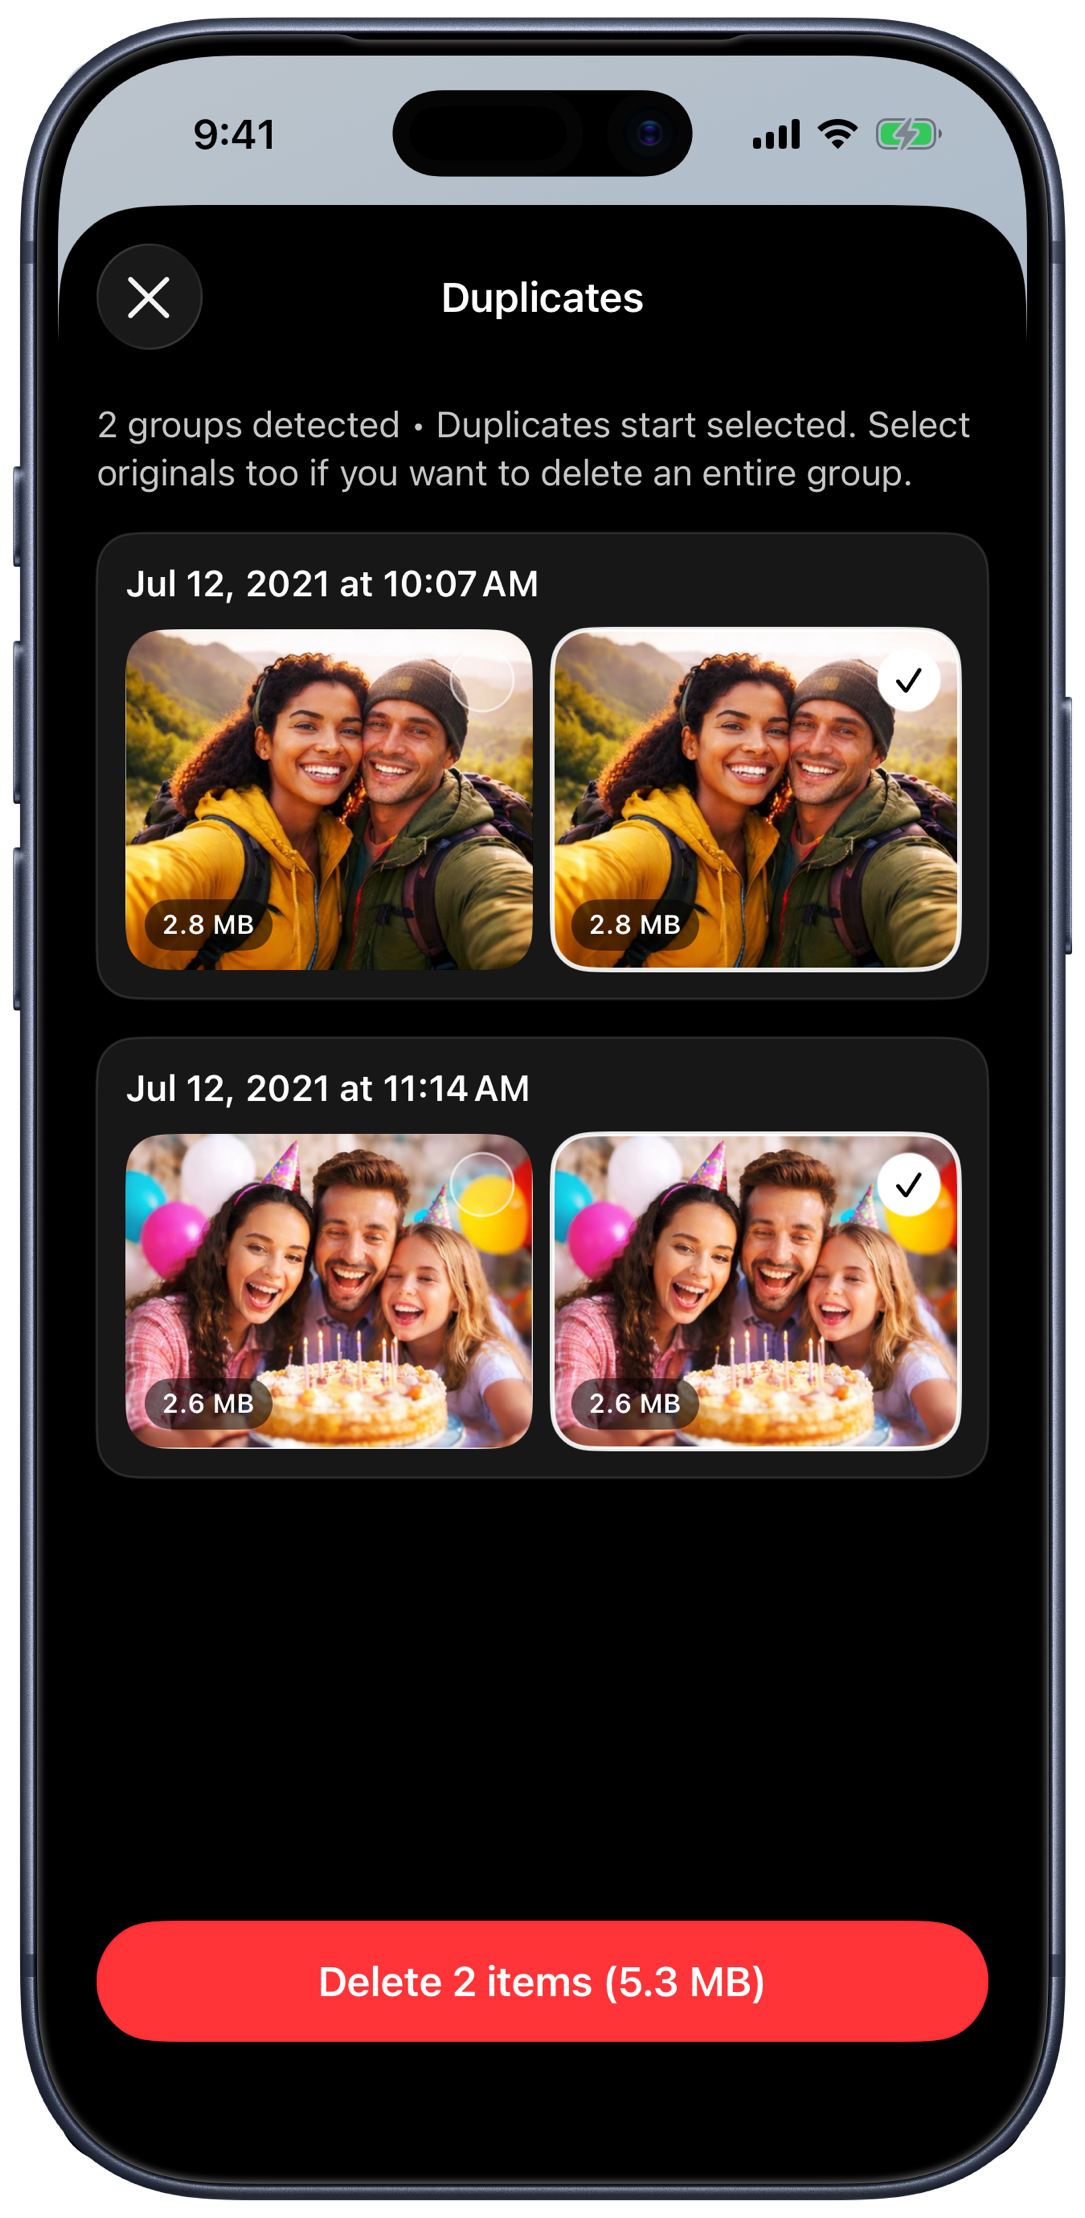
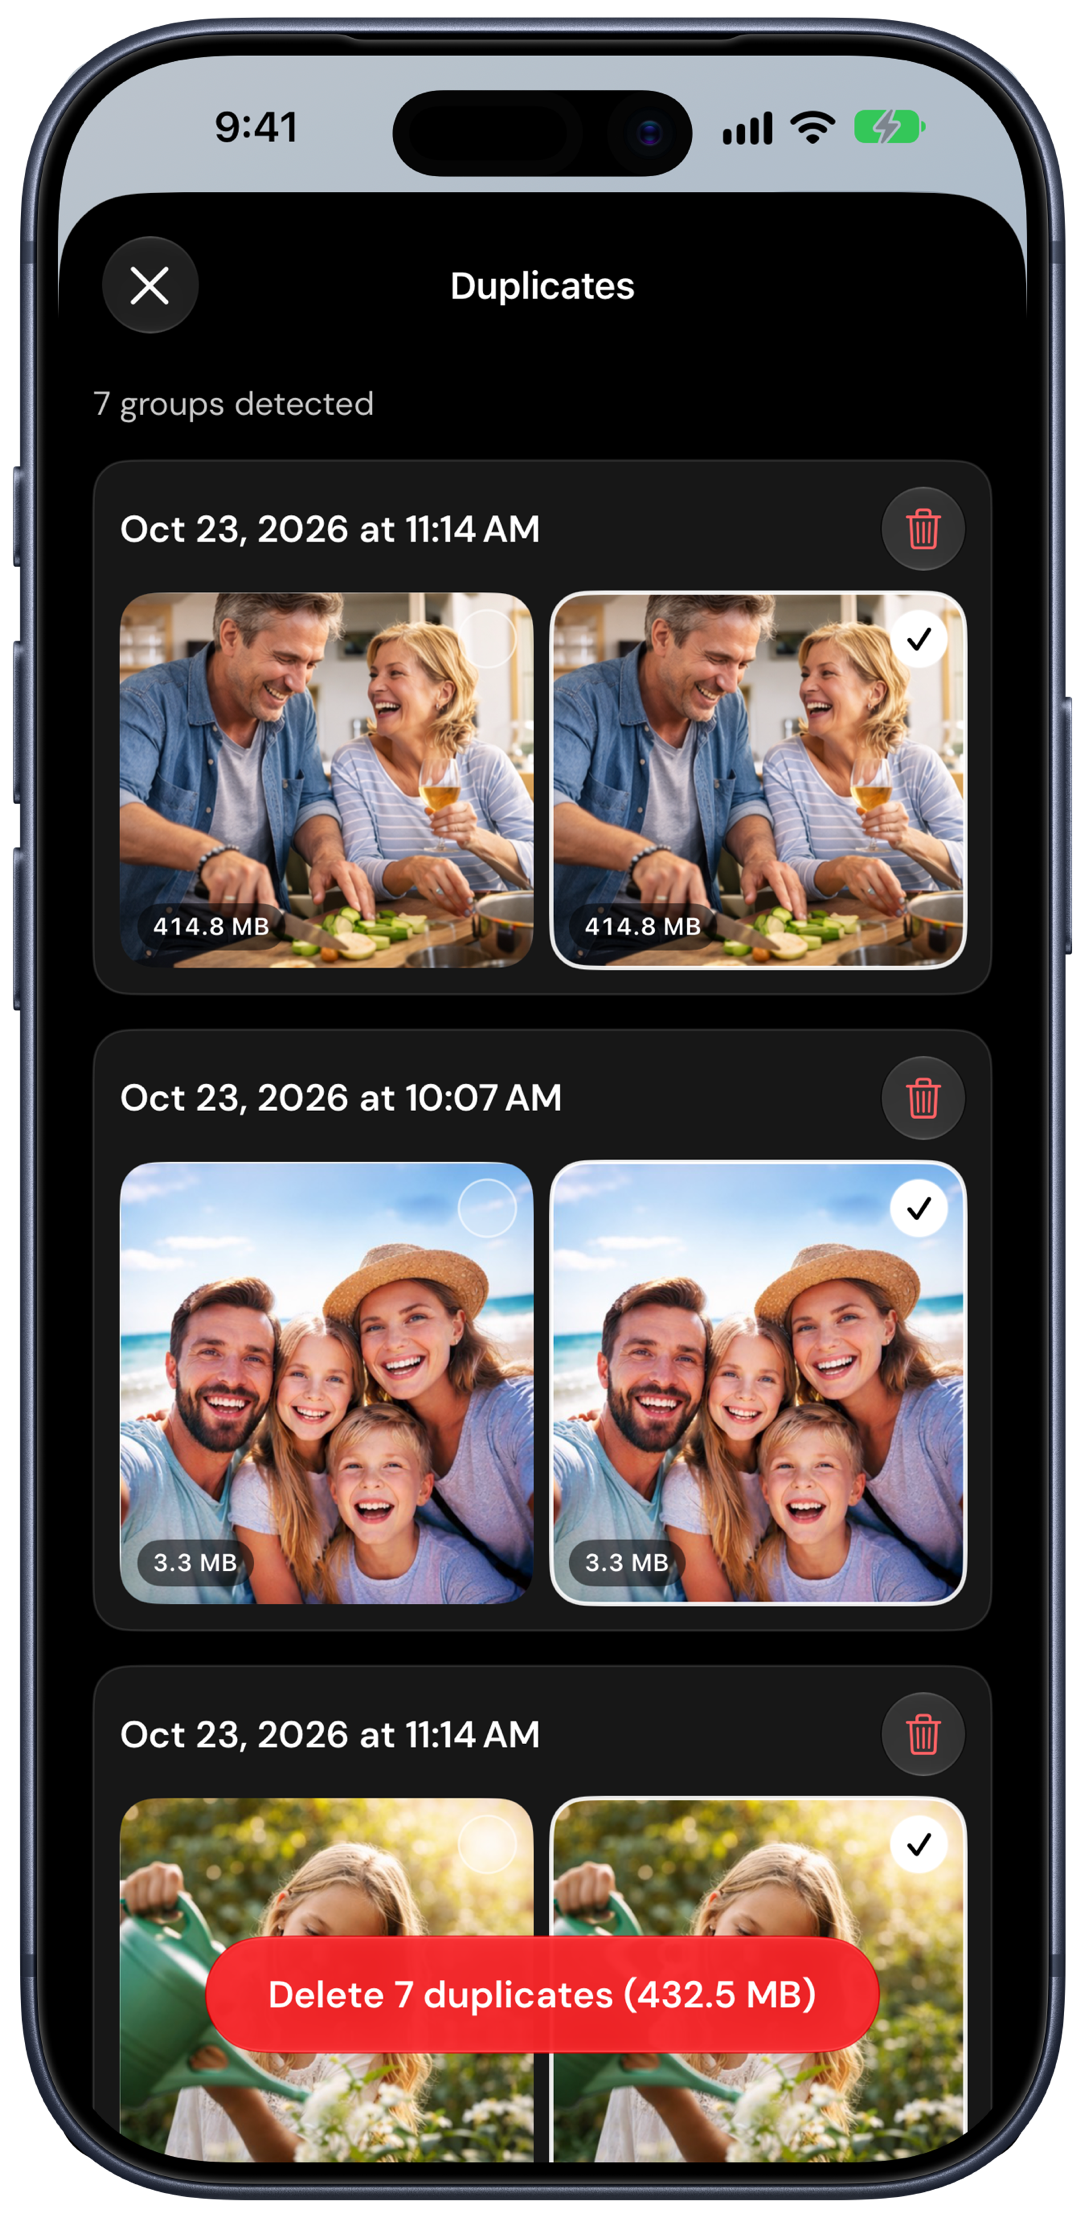
Restore serif wordmark and refresh app screenshots

diff --git a/scripts/prepare-assets.swift b/scripts/prepare-assets.swift
@@ -26,7 +26,7 @@ func checkoutURL(environmentKey: String, siblingName: String) -> URL {
 let thisdayRoot = checkoutURL(environmentKey: "THISDAY_APP_ROOT", siblingName: "thisday")
 let slidesToolRoot = checkoutURL(environmentKey: "APP_STORE_SLIDES_TOOL_ROOT", siblingName: "app-store-slides-tool")
 
-let screenshotVersion = ProcessInfo.processInfo.environment["THISDAY_SCREENSHOT_VERSION"] ?? "v1.17.0"
+let screenshotVersion = ProcessInfo.processInfo.environment["THISDAY_SCREENSHOT_VERSION"] ?? "v2.6.0"
 let screenshotDevice = ProcessInfo.processInfo.environment["THISDAY_SCREENSHOT_DEVICE"] ?? "iphone"
 let screenshotLocale = ProcessInfo.processInfo.environment["THISDAY_SCREENSHOT_LOCALE"] ?? "en_US"
 let framedOutputWidth = CGFloat(
@@ -34,16 +34,33 @@ let framedOutputWidth = CGFloat(
 )
 
 let rawScreenshotRoot = thisdayRoot
-    .appendingPathComponent("build/AppStore")
+    .appendingPathComponent("app-store-slides")
     .appendingPathComponent(screenshotVersion)
+    .appendingPathComponent("inputs")
     .appendingPathComponent(screenshotDevice)
     .appendingPathComponent(screenshotLocale)
-    .appendingPathComponent("raw")
 let assetsRoot = projectRoot.appendingPathComponent("assets/images")
 let devicesRoot = assetsRoot.appendingPathComponent("devices")
 
+let frameImagePath: String = {
+    if let override = ProcessInfo.processInfo.environment["THISDAY_IPHONE_FRAME"], !override.isEmpty {
+        return (override as NSString).expandingTildeInPath
+    }
+    let configURL = thisdayRoot.appendingPathComponent("app-store-slides/\(screenshotVersion)/configs/iphone-\(screenshotLocale).json")
+    if let data = try? Data(contentsOf: configURL),
+       let config = try? JSONSerialization.jsonObject(with: data) as? [String: Any],
+       let devices = config["devices"] as? [String: Any],
+       let iphone = devices["iphone"] as? [String: Any],
+       let frame = iphone["frame"] as? [String: Any],
+       let image = frame["image"] as? String {
+        let path = (image as NSString).expandingTildeInPath
+        return path.hasPrefix("/") ? path : configURL.deletingLastPathComponent().appendingPathComponent(path).path
+    }
+    return slidesToolRoot.appendingPathComponent("Assets/Frames/iPhone 17 Pro - Deep Blue - Portrait.png").path
+}()
+
 let iphoneFrame = FrameConfig(
-    imagePath: slidesToolRoot.appendingPathComponent("Assets/Frames/iPhone 17 Pro - Deep Blue - Portrait.png").path,
+    imagePath: frameImagePath,
     screenX: 72,
     screenY: 69,
     screenWidth: 1206,

diff --git a/assets/css/site.css b/assets/css/site.css
@@ -33,6 +33,7 @@
   --radius: 16px;
   --radius-sm: 10px;
   --font: "DM Sans", -apple-system, BlinkMacSystemFont, "Segoe UI", sans-serif;
+  --font-brand: "New York", "Iowan Old Style", "Apple Garamond", Baskerville, "Palatino Linotype", Palatino, Georgia, serif;
   --max-width: 1120px;
   --header-h: 56px;
   --page-gutter: max(1.25rem, env(safe-area-inset-left, 0px));
@@ -152,6 +153,7 @@ a:hover {
 }
 
 .brand--text-only .brand-name {
+  font-family: var(--font-brand);
   font-size: 1.35rem;
   letter-spacing: 0.01em;
   text-transform: lowercase;

diff --git a/README.md b/README.md
@@ -33,18 +33,20 @@ The server auto-rebuilds when you save files. Stop it with `Ctrl+C` in the termi
 
 ### Regenerate screenshots
 
-Framed iPhone 17 Pro screenshots are generated from the This Day app repo. By default, the script uses `build/AppStore/v1.17.0/iphone/en_US/raw` and emits 1085px-wide site assets:
+Framed iPhone 17 Pro screenshots are generated from the This Day app repo. By default, the script uses the reviewed DM Sans captures in `app-store-slides/v2.6.0/inputs/iphone/en_US` and emits 1085px-wide site assets. The paywall is framed from `assets/images/raw/premium-paywall.png`:
 
 ```bash
 ./scripts/prepare-assets.swift
 ```
 
-The script looks for sibling checkouts at `../thisday` and `../app-store-slides-tool`. Override those paths, or the screenshot source, when needed:
+The app screenshots reuse the November 8 captures prepared for the 2.6.0 listing. The real RevenueCat paywall was captured on November 10 from Debug 2.7.0 (92). Input provenance and hashes are recorded in `assets/images/screenshot-sources.json`.
+
+The script looks for sibling checkouts at `../thisday` and `../app-store-slides-tool`. It reads the frame image path from the selected iPhone slide config, falling back to the slides tool’s frame directory. Set `THISDAY_IPHONE_FRAME` to override that path. Override the checkouts or screenshot source when needed:
 
 ```bash
 THISDAY_APP_ROOT=/path/to/thisday \
 APP_STORE_SLIDES_TOOL_ROOT=/path/to/app-store-slides-tool \
-THISDAY_SCREENSHOT_VERSION=v1.17.0 \
+THISDAY_SCREENSHOT_VERSION=v2.6.0 \
 THISDAY_SCREENSHOT_DEVICE=iphone \
 THISDAY_SCREENSHOT_LOCALE=en_US \
 ./scripts/prepare-assets.swift
@@ -52,7 +54,7 @@ THISDAY_SCREENSHOT_LOCALE=en_US \
 
 ## Typography
 
-All site text uses DM Sans, including the header wordmark and legal pages. The normal and italic variable fonts (Latin subset, weights 100–1000) are self-hosted in `assets/fonts/` from [Google Fonts](https://fonts.google.com/specimen/DM+Sans), with the SIL Open Font License included in `assets/fonts/OFL.txt`.
+Site text uses DM Sans, including navigation, headings, and legal pages. The header wordmark retains its original serif font stack. The normal and italic variable fonts (Latin subset, weights 100–1000) are self-hosted in `assets/fonts/` from [Google Fonts](https://fonts.google.com/specimen/DM+Sans), with the SIL Open Font License included in `assets/fonts/OFL.txt`.
 
 ## Deploy
 
